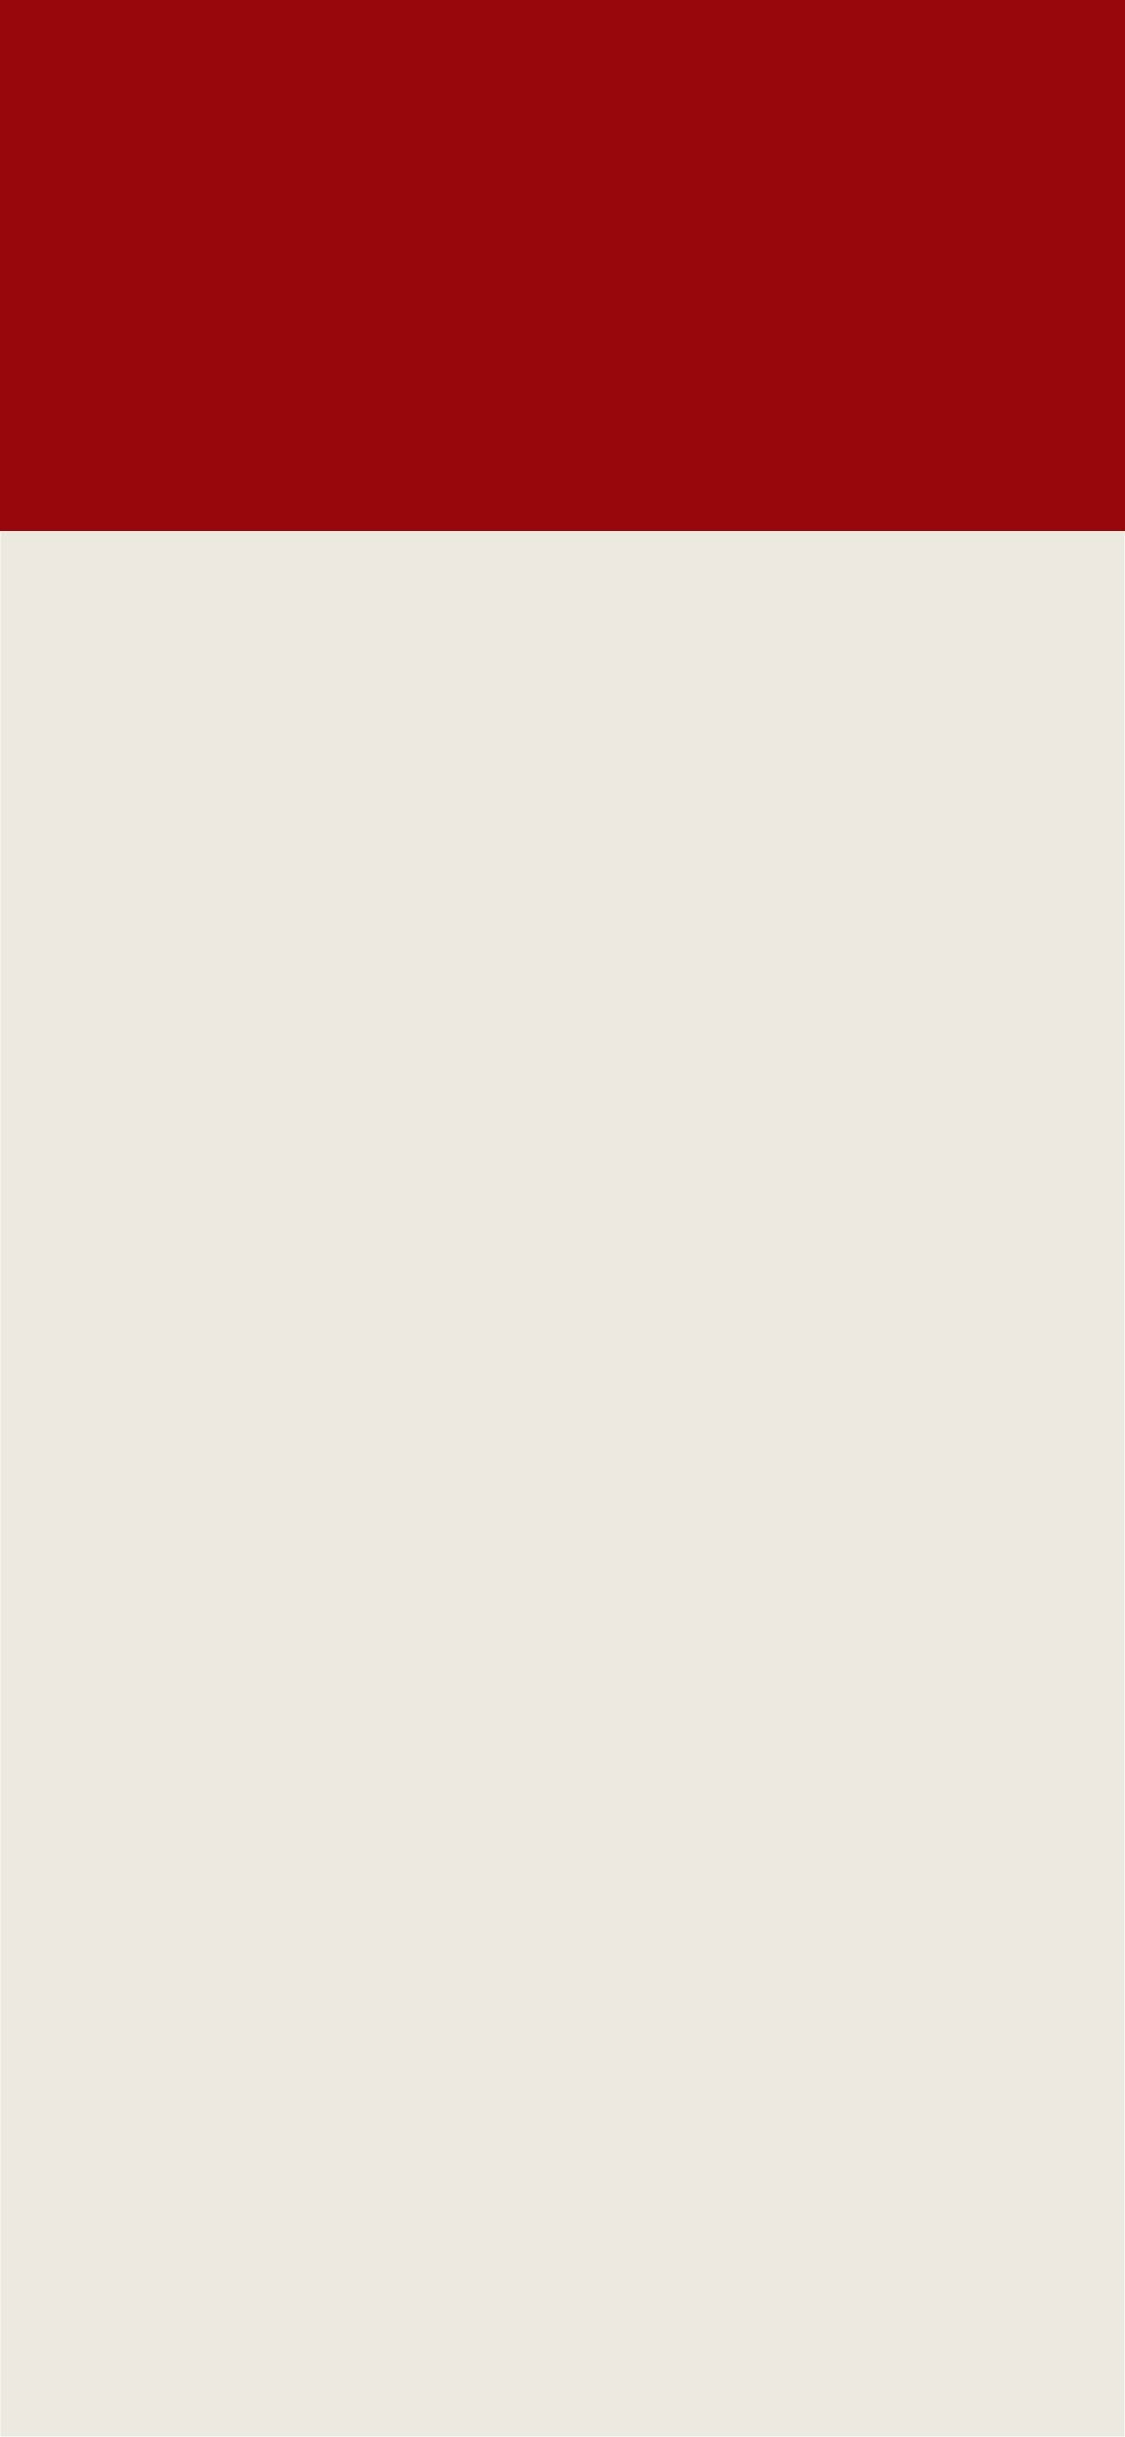
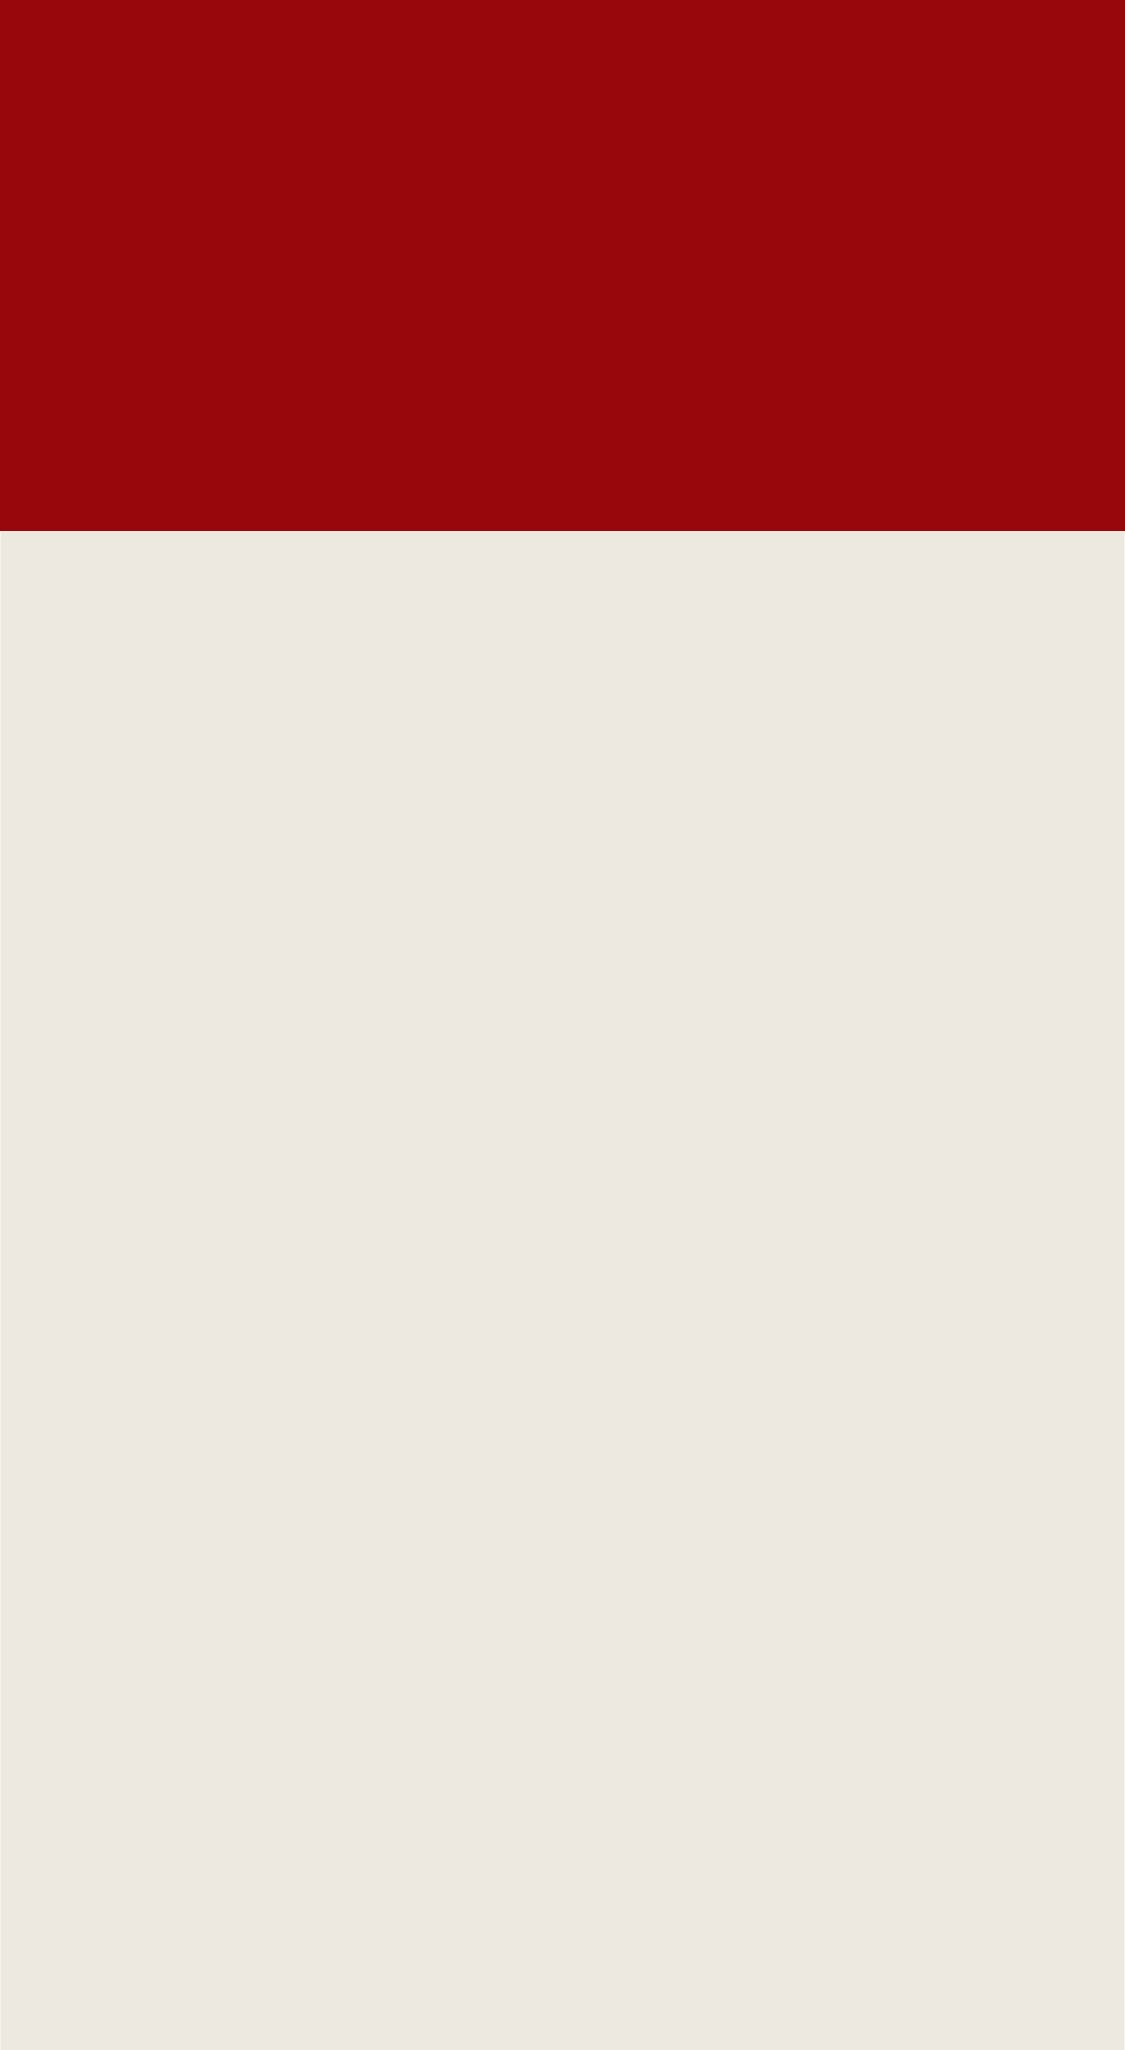
§

Changed region(s): [[0.0, 0.2185, 1.0, 0.281]]

diff --git a/lib/src/pages/advert_page.dart b/lib/src/pages/advert_page.dart
@@ -19,7 +19,7 @@ class _AdvertPageState extends State<AdvertPage> {
       decoration: BoxDecoration(
         image: DecorationImage(
           image: AssetImage("images/advertPageBackground.jpg"),
-          fit: BoxFit.fitHeight,
+          fit: BoxFit.cover,
         ),
       ),
       child: Scaffold(
